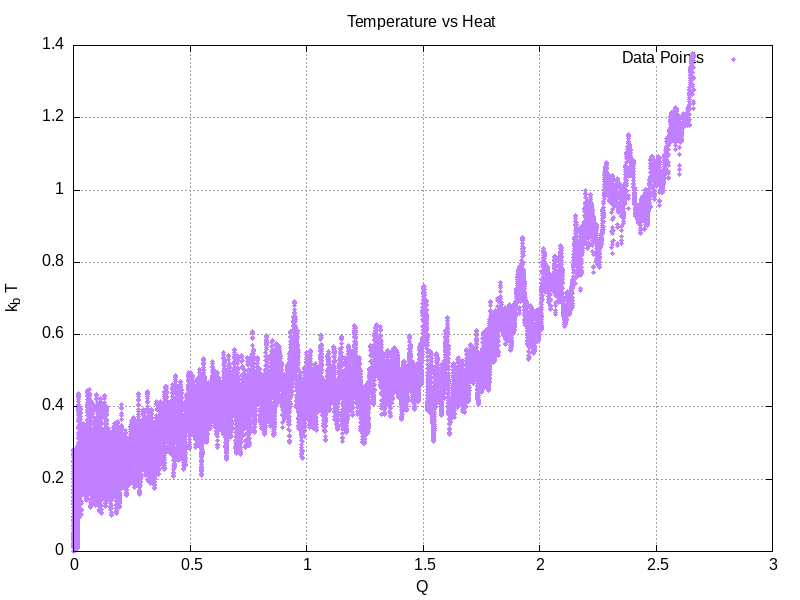
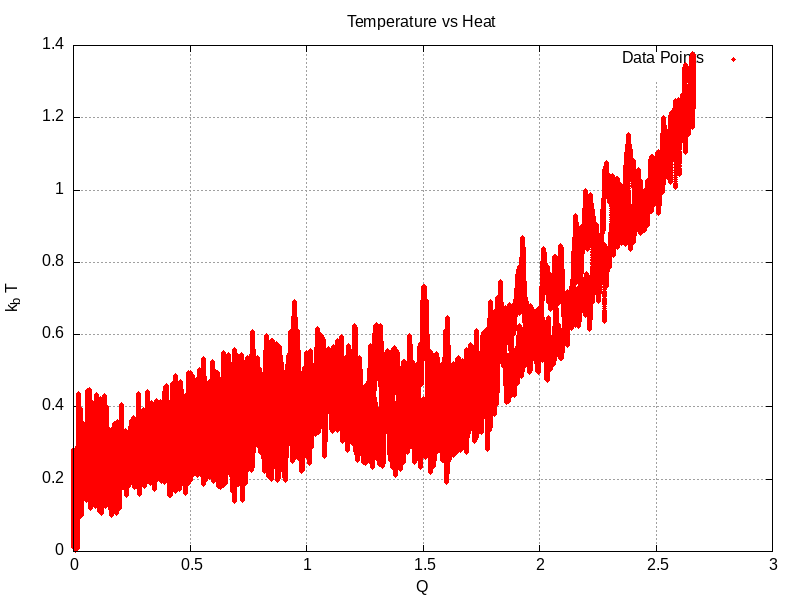
Added heating and cooling files

Changed region(s): [[0.0625, 0.09, 0.875, 0.93]]

diff --git a/Project 8/MolecularDynamics.cpp b/Project 8/MolecularDynamics.cpp
@@ -6,7 +6,7 @@ Simulates the motion of molecules
 This code has limitations in the form of time step.
 
 Author: Mark Smith (smi20046@byui.edu)
-Date: 3/9/2026
+Date: 3/13/2026
 */
 
 #include "MolecularDynamics.hpp"
@@ -17,11 +17,11 @@ using namespace std;
 using namespace MD;
 
 MolecularDynamics::MolecularDynamics(int GridSize, int NumParticles, double DeltaEnergy, int Duration, 
-                                    double CutoffLength, double TimeStep, string Filename) : 
+                                    double CutoffLength, double TimeStep, string Filenameup, string Filenamedown) : 
                                     gridSize(GridSize), positions(NumParticles*2,0), oldPositions(NumParticles*2,0), 
                                     deltaEnergy(DeltaEnergy), duration(Duration), numParticles(NumParticles), 
-                                    cutoffLength(CutoffLength), timeStep(TimeStep), filename(Filename),
-                                    forces(NumParticles*2,0){}
+                                    cutoffLength(CutoffLength), timeStep(TimeStep), filenameup(Filenameup),
+                                    forces(NumParticles*2,0), filenamedown(Filenamedown){}
 
 void MolecularDynamics::GivePositions(int NumParticle, double x, double y)
 {
@@ -64,30 +64,32 @@ double MolecularDynamics::Energy(int NumParticle)
 
 void MolecularDynamics::Dynamics()
 {
-    ofstream Data(filename);
+    ofstream Dataup(filenameup);
+    ofstream Datadown(filenamedown);
     double energy = 0;
     int energyAdd = 10; // How many steps til more heat is added
+    int saveRate = 1; // After how many runs to save
 
     // Save initial positions
-    for (int part = 0; part < numParticles; part++)
-    {
-        Data << positions[part*2] << " " << positions[part*2+1]; // Save x, y
+    // for (int part = 0; part < numParticles; part++)
+    // {
+    //     Data << positions[part*2] << " " << positions[part*2+1]; // Save x, y
 
-        if (part != numParticles-1)
-        {
-            Data << endl;
-        }
-        else // Keep line open so I can add the temperature and energy on the last line
-        {
-            Data << " " << temp << " " << energy << endl << endl << endl;
-        }
-    }
+    //     if (part != numParticles-1)
+    //     {
+    //         Data << endl;
+    //     }
+    //     else // Keep line open so I can add the temperature and energy on the last line
+    //     {
+    //         Data << " " << temp << " " << energy << endl << endl << endl;
+    //     }
+    // }
 
 
-    for (int i = 0; i<duration/*2.0*/+coolLoops; i++)
+    for (int i = 0; i<duration*2.0+coolLoops; i++)
     {
         temp = 0;
-        double scale = 1;
+        double scale = 10;
 
         // Force loop
         for (int part1 = 0; part1<numParticles; part1++)
@@ -221,22 +223,39 @@ void MolecularDynamics::Dynamics()
         }
 
         // Save temp, and energy
-        if (i%10 == 0 && i > coolLoops) // Save every 10 iterations
+        if (i%saveRate == 0 && i > coolLoops && i < duration+coolLoops) // Save every 10 iterations on heating
+        {
+            for (int part = 0; part < numParticles; part++)
             {
-                for (int part = 0; part < numParticles; part++)
-                {
-                    Data << positions[part*2] << " " << positions[part*2+1]; // Save x, y
+                Dataup << positions[part*2] << " " << positions[part*2+1]; // Save x, y
 
-                    if (part != numParticles-1)
-                    {
-                        Data << endl;
-                    }
-                    else // Keep line open so I can add the temperature and energy on the last line
-                    {
-                        Data << " " << temp << " " << energy << endl << endl << endl;
-                    }
+                if (part != numParticles-1)
+                {
+                    Dataup << endl;
+                }
+                else // Keep line open so I can add the temperature and energy on the last line
+                {
+                    Dataup << " " << temp << " " << energy << endl << endl << endl;
                 }
             }
+        }
+        if (i%saveRate == 0 && i > duration+coolLoops) // Save every 10 iterations on cooling
+        {
+            for (int part = 0; part < numParticles; part++)
+            {
+                Dataup << positions[part*2] << " " << positions[part*2+1]; // Save x, y
+
+                if (part != numParticles-1)
+                {
+                    Dataup << endl;
+                }
+                else // Keep line open so I can add the temperature and energy on the last line
+                {
+                    Dataup << " " << temp << " " << energy << endl << endl << endl;
+                }
+            }
+        }
     }
-    Data.close();
+    Dataup.close();
+    Datadown.close();
 }

diff --git a/Project 8/MolecularDynamics.hpp b/Project 8/MolecularDynamics.hpp
@@ -4,7 +4,7 @@ Header file for MolecularDynamics class
 Creates an outline of what the MolecularDynamics class defines
 
 Author: Mark Smith (smi20046@byui.edu)
-Date: 3/9/2026
+Date: 3/13/2026
 */
 
 #pragma once
@@ -28,10 +28,11 @@ namespace MD
             double timeStep;
             double m = 1.0;
             int coolLoops = 1e3;
-            std::string filename;
+            std::string filenameup;
+            std::string filenamedown;
 
         public:
-            MolecularDynamics(int GridSize, int NumParticles, double DeltaEnergy, int Duration, double CutoffLength, double TimeStep, std::string Filename);
+            MolecularDynamics(int GridSize, int NumParticles, double DeltaEnergy, int Duration, double CutoffLength, double TimeStep, std::string Filenameup, std::string Filenamedown);
             void GivePositions(int NumParticle, double x, double y);
             double Distance(int NumParticle1, int NumParticle2);
             double Force(double distance);

diff --git a/Project 8/Main.cpp b/Project 8/Main.cpp
@@ -8,7 +8,7 @@ per step, number of steps, a cutoff length,
 and time step. This is followed by an output file name.
 
 Author: Mark Smith (smi20046@byui.edu)
-Date: 3/12/2026
+Date: 3/13/2026
 */
 #include <iostream>
 #include <ctime>
@@ -24,7 +24,7 @@ int steps = 290000;
 double cutoffLength = 7.0;
 double timeStep = 1e-3;
 string filenameup = "resultsP8_up.txt";
-string filenamedowwn = "resultsP8_down.txt";
+string filenamedown = "resultsP8_down.txt";
 
 int main()
 {
